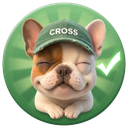
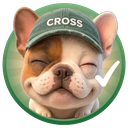
иконки: якорь только про стиль, пак вернулся к детализации референса
Пак уехал в гладкий плюш: шерсть без волосков, кепка без фактуры. Причина
в якоре. Он требовал повторить «стиль, свет и фон» и указывал на иконку
из этого же прогона, а она сама уже подсела — копия копии, и за несколько
прогонов детализация ушла.

Якорь переписан: только стиль (рендер, шерсть по волоску, веснушки, усы,
фактура кепки, блики в глазах), а позу, кадр и фон брать из задания
и у якоря не копировать. Указывает он теперь на исходную принятую
картинку, а не на соседнюю по прогону. Весь пак перегенерирован с ним —
детализация вернулась.

Заодно две утечки из референсов:

- клавиатура из bully-style-ref.png (кадр анимации «бот печатает») попала
  в bully_not_helpful. В листовом задании запрет был, в поштучное его
  не перенесли — теперь есть;
- в bully_detail модель добавила глубину резкости и размытую вторую лапу
  на заднем плане, вырезалка сохранила её как непрозрачную, и на 128 px
  это читалось висящим комком. Клауза PAW требует резкости во всём кадре
  и пустоты за лапой.

bully_detail также переписан по замечанию: лапа входит справа, ручка под
углом 45 градусов и пишет, блокнот под наклоном.

Claude-Session: https://claude.ai/code/session_01P6FbspjU9fFr6Gxc8sAvGG

diff --git a/иконки/generate.py b/иконки/generate.py
@@ -60,9 +60,13 @@ DEFAULT_REFS = ["bulli-ref.png", "bully-style-ref.png"]
 # Фраза из `prompt-stickers.md`: она и есть приём, которым держится стиль
 # поштучных прогонов — второй образец подтверждает, что первый не случайность.
 ANCHOR_NOTE = (
-    "The last attached image is an already approved image from this exact set. "
-    "Match its style, its lighting, its background and its framing exactly: the "
-    "new image must look like it came from the same run as that one."
+    "The last attached image is an approved image of this character. Match its "
+    "STYLE exactly and only its style: the same 3D render, the same fine fur "
+    "with individual hairs, the same soft studio lighting and shading, the same "
+    "freckles and whiskers on the muzzle, the same worn fabric texture on the "
+    "cap, the same huge glossy eyes with the same highlights. Ignore its pose, "
+    "its crop and its background — those come from the instructions above, not "
+    "from it. Do not copy its background."
 )
 
 MIME = {".png": "image/png", ".jpg": "image/jpeg", ".jpeg": "image/jpeg",

diff --git a/иконки/prompt-each.md b/иконки/prompt-each.md
@@ -45,6 +45,10 @@ the same head-to-body proportions with the head filling most of the frame, the
 same freckled muzzle, the same big upright ears, the same worn denim baseball
 cap with the white embroidered word "CROSS".
 
+One of the attached references shows him at a keyboard. The keyboard is not
+part of him: it is there for style only. Never draw a keyboard, a desk, a table
+or a laptop unless the line below asks for one.
+
 Do NOT redraw him. Do NOT restyle him. Do NOT turn him into a 2D illustration,
 a painted cartoon, a vector drawing or a printed emoji. No paper texture, no
 canvas texture, no glossy print finish, no outline drawing, no flat shading. He
@@ -104,7 +108,10 @@ frame: the same cream fur, the same soft studio lighting and the same 3D render
 as the attached references, with soft rounded brown pads. It is a dog's paw, not
 a human hand — broad, with short thick toes and visible pads, never human
 fingers, never a glove. There is no badge in a PAW image: no circle, no rays, no
-gradient, just the paw on flat grey background. Show ONLY the paw itself,
+gradient, just the paw on flat grey background. Everything in the image is in
+sharp focus: there is no depth of field, no blur, and nothing at all behind the
+paw — no second paw, no out-of-focus shape, no object in the background.
+Show ONLY the paw itself,
 cropped at the wrist: no forearm, no leg, no shoulder, nothing of the rest of
 him. The paw is centred and fills most of the frame — it is the same size in
 every PAW image, as big as it can be while still leaving clear grey background
@@ -212,6 +219,32 @@ no label, no watermark, no border, no frame.
 её не берёт независимо от яркости. Прогон 04.09 подтвердил — площадь
 непрозрачных пикселей у неё та же, что у зелёной `bully_high`.
 
+## Якорь держит стиль, а не композицию
+
+`--anchor` сначала требовал повторить «стиль, свет и фон» принятой картинки —
+формулировка перенесена из листового задания, где фон и правда общий. С плашкой
+она спорит: якорь тянул за собой серый фон, а подстановка требовала круг.
+
+Хуже другое: якорем служила иконка из этого же прогона, а она сама уже
+подсела по детализации. Через несколько прогонов пак уехал в гладкий плюш —
+шерсть без волосков, кепка без фактуры. Копия копии.
+
+Поэтому якорь теперь **только про стиль** и указывает на исходную принятую
+картинку, а не на соседнюю по прогону: тот же рендер, шерсть по волоску,
+веснушки, усы, фактура кепки, блики в глазах — **а позу, кадр и фон брать
+из задания и не копировать у якоря**. Прогон 04.09 с такой формулировкой
+вернул детализацию всему паку.
+
+Две утечки из референсов, обе стоили по прогону:
+
+- **Клавиатура.** `bully-style-ref.png` — кадр из анимации «бот печатает»,
+  и в `bully_not_helpful` модель положила лапу на клавиатуру. В листовом
+  задании запрет есть, в поштучное его забыли перенести. Теперь есть.
+- **Вторая лапа в расфокусе.** В `bully_detail` модель добавила глубину
+  резкости и размытую лапу на заднем плане; вырезалка сохранила её как
+  непрозрачную, и на 128 px это читалось висящим комком. Клауза `PAW`
+  теперь требует резкости во всём кадре и пустоты за лапой.
+
 ## Шестнадцать подстановок
 
 Порядок и имена — те же, что в `names-c.txt`. Текст ячеек взят из листового
@@ -226,7 +259,7 @@ no label, no watermark, no border, no frame.
 | `bully_hi` | `BADGE blue. Blue denim cap. One front paw raised high beside the head waving hello, big warm open smile, ears perked up. Nothing else in the image.` |
 | `bully_helpful` | `PAW. A big thumbs-up made with one front paw: the paw held upright, the side toe sticking straight up like a thumb, the other toes curled in, pads facing forward. Confident and friendly.` |
 | `bully_not_helpful` | `PAW. A big thumbs-down made with one front paw: the paw held upside down, the side toe pointing straight down like a thumb, the other toes curled in. Nothing else in the image.` |
-| `bully_detail` | `PAW. One front paw holding a short thick yellow pen upright and writing on a small blank white notepad. The paw is the biggest thing in the image and the notepad is small beneath it. The notepad is blank: no writing, no lines, no letters on it.` |
+| `bully_detail` | `PAW. One front paw entering the frame from the RIGHT side, holding a short thick yellow pen at a natural writing angle of about 45 degrees, the tip of the pen touching the paper and actually writing. Under it a small blank white notepad lying at a slight angle. The paw is the biggest thing in the image and the notepad is small beneath it. No head, no ears, no cap and no other part of him anywhere in the image. The notepad is blank: no writing, no lines, no letters on it.` |
 | `bully_search` | `BADGE blue. Blue denim cap. Holding a big magnifying glass up in front of one eye, that eye hugely magnified through the lens, the other eye normal size, focused curious expression.` |
 | `bully_high` | `BADGE green. GREEN denim cap. Calm confident closed-mouth smile, eyes bright and steady, ears perked up, head straight. Nothing else in the image at all: no object, no raised paws, no symbol. The green badge is the whole signal.` |
 | `bully_mid` | `BADGE amber-yellow. AMBER-YELLOW denim cap. Head tilted to one side, one eyebrow raised higher than the other, mouth a small wavy unsure line, one ear up and one ear half down. Nothing else in the image at all: no object, no raised paws, no symbol.` |
